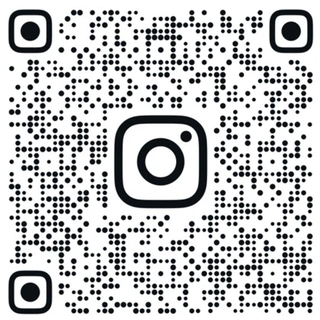
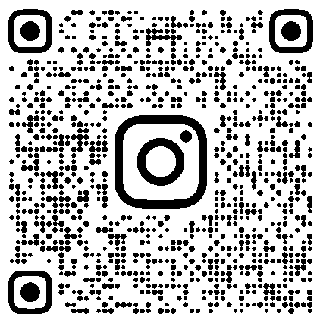
chore: remove GitHub link and convert contact QR codes to black-white

Changed region(s): [[0.0, 0.0312, 1.0, 1.0]]

diff --git a/src/app/contact/page.tsx b/src/app/contact/page.tsx
@@ -72,15 +72,6 @@ export default function ContactPage() {
             );
           })}
         </div>
-
-        <div className="mt-10 flex flex-wrap gap-x-6 gap-y-2 note text-lg text-ink-blue">
-          <a
-            href="https://github.com/MonsterNB1"
-            className="hover:text-marker transition-colors"
-          >
-            GitHub
-          </a>
-        </div>
       </div>
     </section>
   );
